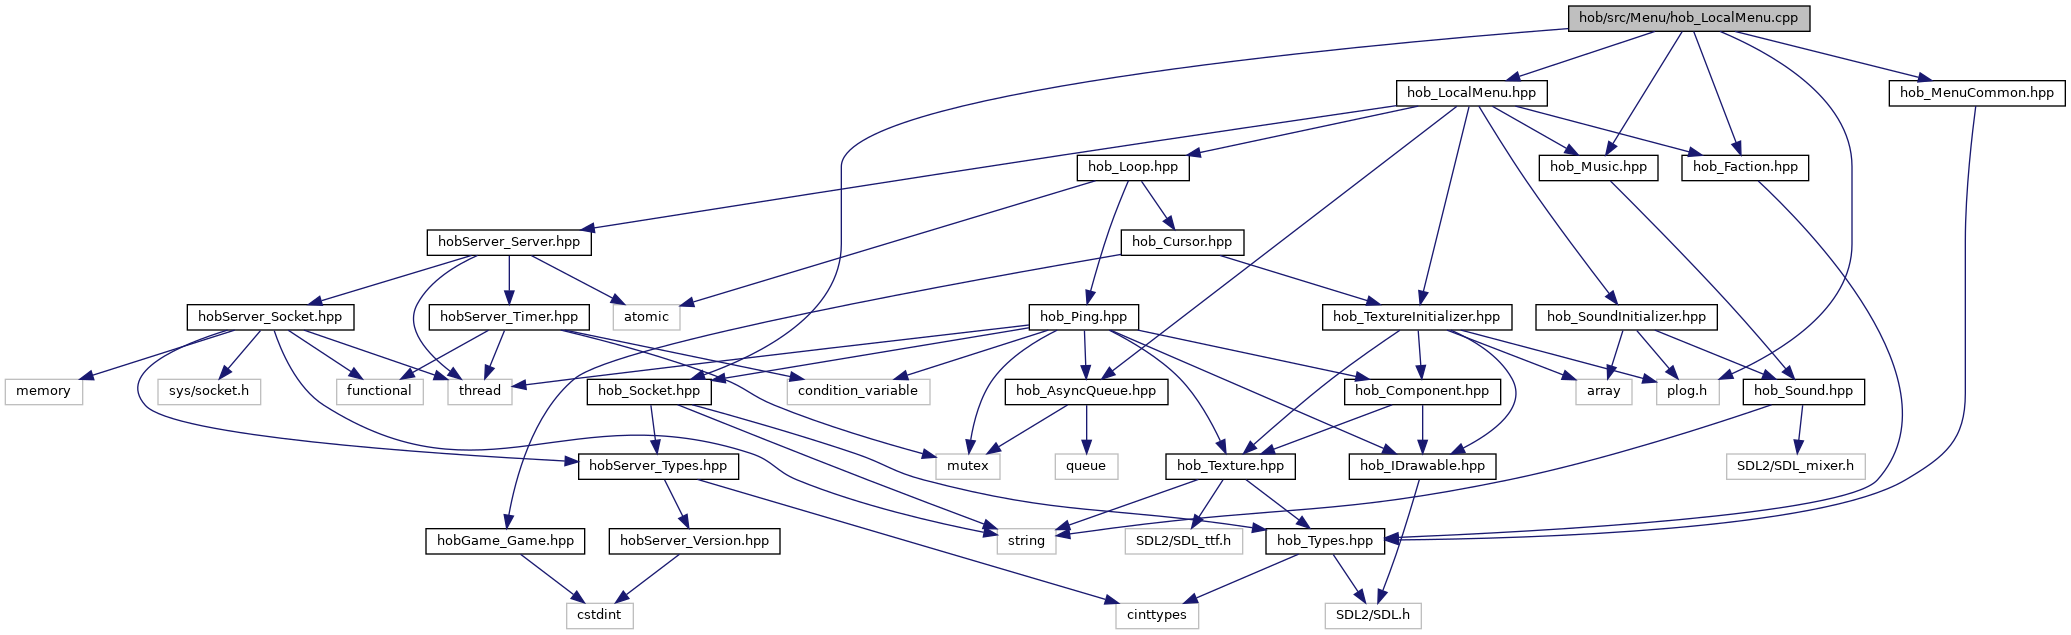
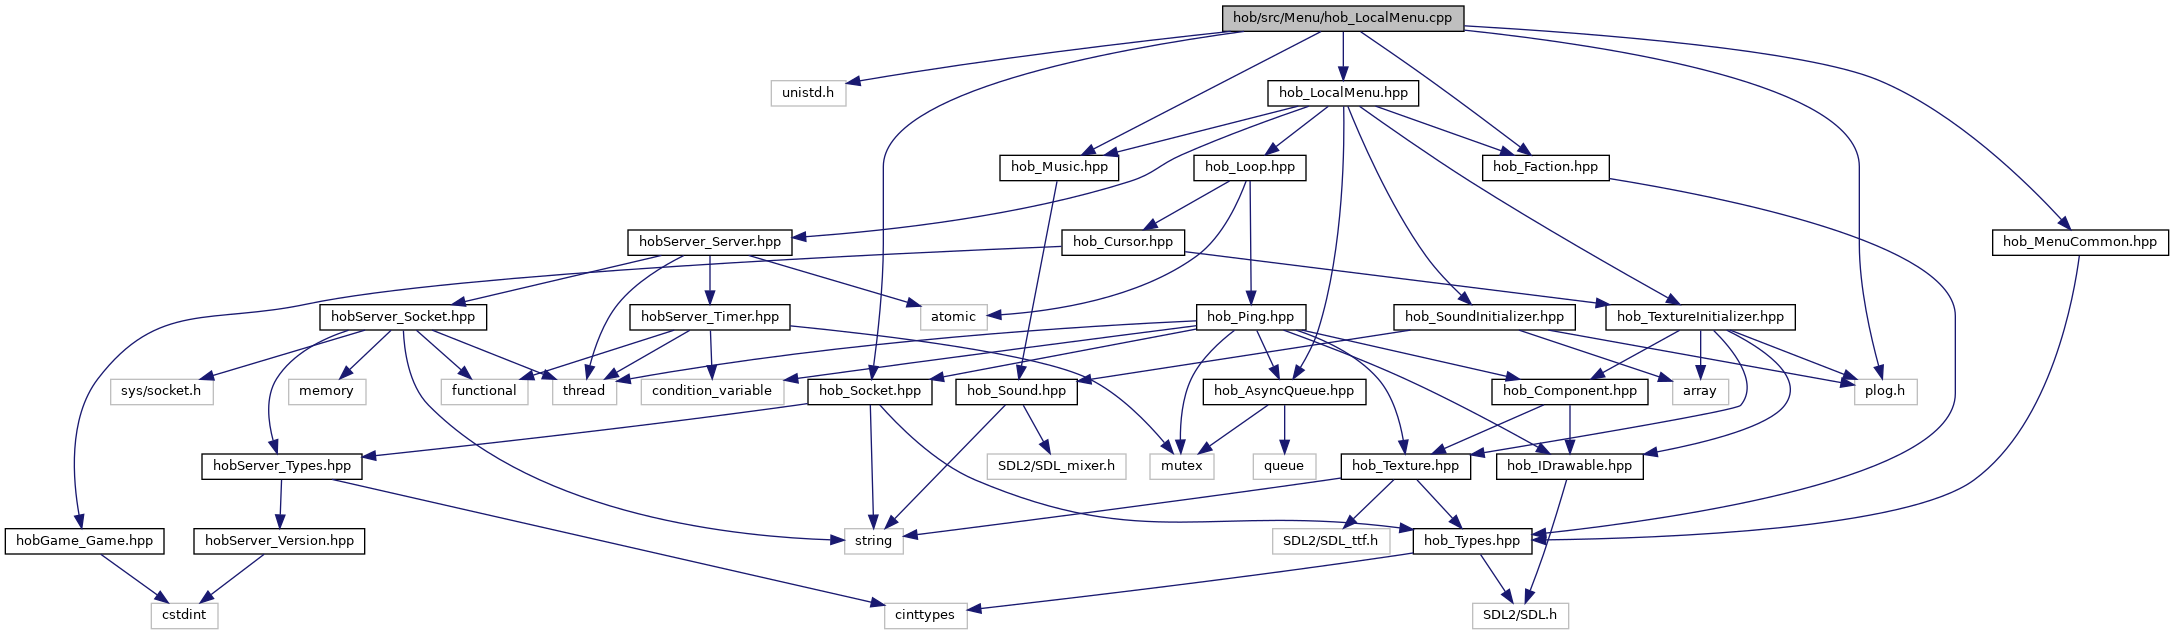
Update compiler flags

diff --git a/docs/html/hob__LocalMenu_8cpp.html b/docs/html/hob__LocalMenu_8cpp.html
@@ -72,7 +72,8 @@ $(function() {
 <div class="title">hob_LocalMenu.cpp File Reference</div>  </div>
 </div><!--header-->
 <div class="contents">
-<div class="textblock"><code>#include &lt;plog.h&gt;</code><br />
+<div class="textblock"><code>#include &lt;unistd.h&gt;</code><br />
+<code>#include &lt;plog.h&gt;</code><br />
 <code>#include &quot;<a class="el" href="hob__LocalMenu_8hpp_source.html">hob_LocalMenu.hpp</a>&quot;</code><br />
 <code>#include &quot;<a class="el" href="hob__MenuCommon_8hpp_source.html">hob_MenuCommon.hpp</a>&quot;</code><br />
 <code>#include &quot;<a class="el" href="hob__Music_8hpp_source.html">hob_Music.hpp</a>&quot;</code><br />
@@ -83,45 +84,46 @@ Include dependency graph for hob_LocalMenu.cpp:</div>
 <div class="dyncontent">
 <div class="center"><img src="hob__LocalMenu_8cpp__incl.png" border="0" usemap="#ahob_2src_2Menu_2hob__LocalMenu_8cpp" alt=""/></div>
 <map name="ahob_2src_2Menu_2hob__LocalMenu_8cpp" id="ahob_2src_2Menu_2hob__LocalMenu_8cpp">
-<area shape="rect" title=" " alt="" coords="1569,5,1810,32"/>
-<area shape="rect" title=" " alt="" coords="1657,379,1719,405"/>
-<area shape="rect" href="hob__LocalMenu_8hpp.html" title=" " alt="" coords="1397,80,1547,107"/>
-<area shape="rect" href="hob__Socket_8hpp.html" title=" " alt="" coords="587,379,711,405"/>
-<area shape="rect" href="hob__Music_8hpp.html" title=" " alt="" coords="1539,155,1658,181"/>
-<area shape="rect" href="hob__Faction_8hpp.html" title=" " alt="" coords="1682,155,1809,181"/>
-<area shape="rect" href="hob__MenuCommon_8hpp.html" title=" " alt="" coords="1889,80,2065,107"/>
-<area shape="rect" href="hob__Loop_8hpp.html" title=" " alt="" coords="1077,155,1189,181"/>
-<area shape="rect" href="hob__AsyncQueue_8hpp.html" title=" " alt="" coords="1005,379,1168,405"/>
-<area shape="rect" href="hob__TextureInitializer_8hpp.html" title=" " alt="" coords="1323,304,1512,331"/>
-<area shape="rect" href="hob__SoundInitializer_8hpp.html" title=" " alt="" coords="1536,304,1717,331"/>
-<area shape="rect" href="hobServer__Server_8hpp.html" title=" " alt="" coords="427,229,591,256"/>
-<area shape="rect" title=" " alt="" coords="613,304,680,331"/>
-<area shape="rect" href="hob__Ping_8hpp.html" title=" " alt="" coords="1029,304,1139,331"/>
-<area shape="rect" href="hob__Cursor_8hpp.html" title=" " alt="" coords="1121,229,1244,256"/>
-<area shape="rect" title=" " alt="" coords="448,379,512,405"/>
-<area shape="rect" title=" " alt="" coords="936,453,1000,480"/>
-<area shape="rect" title=" " alt="" coords="787,379,930,405"/>
-<area shape="rect" href="hob__IDrawable_8hpp.html" title=" " alt="" coords="1349,453,1496,480"/>
-<area shape="rect" href="hob__Texture_8hpp.html" title=" " alt="" coords="1166,453,1295,480"/>
-<area shape="rect" href="hob__Component_8hpp.html" title=" " alt="" coords="1345,379,1501,405"/>
-<area shape="rect" title=" " alt="" coords="1325,603,1421,629"/>
-<area shape="rect" title=" " alt="" coords="997,528,1056,555"/>
-<area shape="rect" title=" " alt="" coords="1125,528,1243,555"/>
-<area shape="rect" href="hob__Types_8hpp.html" title=" " alt="" coords="1266,528,1385,555"/>
-<area shape="rect" title=" " alt="" coords="1116,603,1199,629"/>
-<area shape="rect" title=" " alt="" coords="1055,453,1118,480"/>
-<area shape="rect" href="hobServer__Types_8hpp.html" title=" " alt="" coords="579,453,739,480"/>
-<area shape="rect" href="hobServer__Version_8hpp.html" title=" " alt="" coords="609,528,780,555"/>
-<area shape="rect" title=" " alt="" coords="567,603,633,629"/>
-<area shape="rect" href="hobGame__Game_8hpp.html" title=" " alt="" coords="426,528,585,555"/>
-<area shape="rect" title=" " alt="" coords="1576,379,1632,405"/>
-<area shape="rect" href="hob__Sound_8hpp.html" title=" " alt="" coords="1743,379,1865,405"/>
-<area shape="rect" title=" " alt="" coords="1727,453,1865,480"/>
-<area shape="rect" href="hobServer__Socket_8hpp.html" title=" " alt="" coords="187,304,354,331"/>
-<area shape="rect" href="hobServer__Timer_8hpp.html" title=" " alt="" coords="429,304,589,331"/>
-<area shape="rect" title=" " alt="" coords="5,379,83,405"/>
-<area shape="rect" title=" " alt="" coords="337,379,423,405"/>
-<area shape="rect" title=" " alt="" coords="158,379,261,405"/>
+<area shape="rect" title=" " alt="" coords="1223,5,1464,32"/>
+<area shape="rect" title=" " alt="" coords="771,80,846,107"/>
+<area shape="rect" title=" " alt="" coords="1855,379,1917,405"/>
+<area shape="rect" href="hob__LocalMenu_8hpp.html" title=" " alt="" coords="1268,80,1419,107"/>
+<area shape="rect" href="hob__Socket_8hpp.html" title=" " alt="" coords="808,379,932,405"/>
+<area shape="rect" href="hob__Music_8hpp.html" title=" " alt="" coords="1000,155,1119,181"/>
+<area shape="rect" href="hob__Faction_8hpp.html" title=" " alt="" coords="1483,155,1609,181"/>
+<area shape="rect" href="hob__MenuCommon_8hpp.html" title=" " alt="" coords="1993,229,2169,256"/>
+<area shape="rect" href="hob__Loop_8hpp.html" title=" " alt="" coords="1194,155,1306,181"/>
+<area shape="rect" href="hob__AsyncQueue_8hpp.html" title=" " alt="" coords="1203,379,1366,405"/>
+<area shape="rect" href="hob__TextureInitializer_8hpp.html" title=" " alt="" coords="1606,304,1795,331"/>
+<area shape="rect" href="hob__SoundInitializer_8hpp.html" title=" " alt="" coords="1394,304,1575,331"/>
+<area shape="rect" href="hobServer__Server_8hpp.html" title=" " alt="" coords="628,229,792,256"/>
+<area shape="rect" title=" " alt="" coords="921,304,987,331"/>
+<area shape="rect" href="hob__Ping_8hpp.html" title=" " alt="" coords="1197,304,1306,331"/>
+<area shape="rect" href="hob__Cursor_8hpp.html" title=" " alt="" coords="1062,229,1185,256"/>
+<area shape="rect" title=" " alt="" coords="553,379,617,405"/>
+<area shape="rect" title=" " alt="" coords="1150,453,1214,480"/>
+<area shape="rect" title=" " alt="" coords="641,379,784,405"/>
+<area shape="rect" href="hob__IDrawable_8hpp.html" title=" " alt="" coords="1497,453,1643,480"/>
+<area shape="rect" href="hob__Texture_8hpp.html" title=" " alt="" coords="1341,453,1471,480"/>
+<area shape="rect" href="hob__Component_8hpp.html" title=" " alt="" coords="1492,379,1648,405"/>
+<area shape="rect" title=" " alt="" coords="1473,603,1569,629"/>
+<area shape="rect" title=" " alt="" coords="845,528,903,555"/>
+<area shape="rect" title=" " alt="" coords="1273,528,1390,555"/>
+<area shape="rect" href="hob__Types_8hpp.html" title=" " alt="" coords="1413,528,1532,555"/>
+<area shape="rect" title=" " alt="" coords="885,603,967,629"/>
+<area shape="rect" title=" " alt="" coords="1253,453,1316,480"/>
+<area shape="rect" href="hobServer__Types_8hpp.html" title=" " alt="" coords="202,453,362,480"/>
+<area shape="rect" href="hobServer__Version_8hpp.html" title=" " alt="" coords="194,528,365,555"/>
+<area shape="rect" title=" " alt="" coords="151,603,218,629"/>
+<area shape="rect" href="hobGame__Game_8hpp.html" title=" " alt="" coords="5,528,164,555"/>
+<area shape="rect" title=" " alt="" coords="1673,379,1729,405"/>
+<area shape="rect" href="hob__Sound_8hpp.html" title=" " alt="" coords="956,379,1077,405"/>
+<area shape="rect" title=" " alt="" coords="987,453,1126,480"/>
+<area shape="rect" href="hobServer__Socket_8hpp.html" title=" " alt="" coords="320,304,487,331"/>
+<area shape="rect" href="hobServer__Timer_8hpp.html" title=" " alt="" coords="630,304,790,331"/>
+<area shape="rect" title=" " alt="" coords="289,379,366,405"/>
+<area shape="rect" title=" " alt="" coords="441,379,528,405"/>
+<area shape="rect" title=" " alt="" coords="111,379,213,405"/>
 </map>
 </div>
 </div><table class="memberdecls">

diff --git a/docs/html/hobGame__Game_8hpp_source.html b/docs/html/hobGame__Game_8hpp_source.html
@@ -148,12 +148,12 @@ $(function() {
 <div class="line"><a name="l00120"></a><span class="lineno">  120</span>&#160; </div>
 <div class="line"><a name="l00121"></a><span class="lineno">  121</span>&#160;<span class="preprocessor">#endif </span><span class="comment">/*&lt; HOB_GAME_GAME_HPP_ */</span><span class="preprocessor"></span></div>
 <div class="ttc" id="aclasshobGame_1_1Game_html"><div class="ttname"><a href="classhobGame_1_1Game.html">hobGame::Game</a></div><div class="ttdef"><b>Definition:</b> hobGame_Game.hpp:61</div></div>
-<div class="ttc" id="aclasshobGame_1_1Game_html_a20285d2c61716f6690349449f7ad184b"><div class="ttname"><a href="classhobGame_1_1Game.html#a20285d2c61716f6690349449f7ad184b">hobGame::Game::getCursorType</a></div><div class="ttdeci">CursorType getCursorType(int32_t x, int32_t y) const noexcept</div><div class="ttdef"><b>Definition:</b> hobGame_Game.cpp:102</div></div>
-<div class="ttc" id="aclasshobGame_1_1Game_html_a20ad4af34bd2f3c635e1703c993bab15"><div class="ttname"><a href="classhobGame_1_1Game.html#a20ad4af34bd2f3c635e1703c993bab15">hobGame::Game::getMenuMode</a></div><div class="ttdeci">MenuMode getMenuMode(int32_t x, int32_t y) const noexcept</div><div class="ttdef"><b>Definition:</b> hobGame_Game.cpp:121</div></div>
+<div class="ttc" id="aclasshobGame_1_1Game_html_a20285d2c61716f6690349449f7ad184b"><div class="ttname"><a href="classhobGame_1_1Game.html#a20285d2c61716f6690349449f7ad184b">hobGame::Game::getCursorType</a></div><div class="ttdeci">CursorType getCursorType(int32_t x, int32_t y) const noexcept</div><div class="ttdef"><b>Definition:</b> hobGame_Game.cpp:103</div></div>
+<div class="ttc" id="aclasshobGame_1_1Game_html_a20ad4af34bd2f3c635e1703c993bab15"><div class="ttname"><a href="classhobGame_1_1Game.html#a20ad4af34bd2f3c635e1703c993bab15">hobGame::Game::getMenuMode</a></div><div class="ttdeci">MenuMode getMenuMode(int32_t x, int32_t y) const noexcept</div><div class="ttdef"><b>Definition:</b> hobGame_Game.cpp:122</div></div>
 <div class="ttc" id="aclasshobGame_1_1Game_html_a4e0c6d5a25e103816629ac48dd61dd58"><div class="ttname"><a href="classhobGame_1_1Game.html#a4e0c6d5a25e103816629ac48dd61dd58">hobGame::Game::recruit</a></div><div class="ttdeci">bool recruit(Unit unit) noexcept</div><div class="ttdef"><b>Definition:</b> hobGame_Game.cpp:97</div></div>
 <div class="ttc" id="aclasshobGame_1_1Game_html_a7ef578b522dd4e81c8185f75a1861322"><div class="ttname"><a href="classhobGame_1_1Game.html#a7ef578b522dd4e81c8185f75a1861322">hobGame::Game::endTurn</a></div><div class="ttdeci">void endTurn(void) noexcept</div><div class="ttdef"><b>Definition:</b> hobGame_Game.cpp:83</div></div>
 <div class="ttc" id="aclasshobGame_1_1Game_html_acf144f65fff9d86001cb91f3b0080683"><div class="ttname"><a href="classhobGame_1_1Game.html#acf144f65fff9d86001cb91f3b0080683">hobGame::Game::Game</a></div><div class="ttdeci">Game(bool isAlliance) noexcept</div><div class="ttdef"><b>Definition:</b> hobGame_Game.cpp:76</div></div>
-<div class="ttc" id="aclasshobGame_1_1Game_html_ade0d4dac68791d86cdc1b45aec61ae9e"><div class="ttname"><a href="classhobGame_1_1Game.html#ade0d4dac68791d86cdc1b45aec61ae9e">hobGame::Game::getGold</a></div><div class="ttdeci">uint8_t getGold(void) const noexcept</div><div class="ttdef"><b>Definition:</b> hobGame_Game.cpp:145</div></div>
+<div class="ttc" id="aclasshobGame_1_1Game_html_ade0d4dac68791d86cdc1b45aec61ae9e"><div class="ttname"><a href="classhobGame_1_1Game.html#ade0d4dac68791d86cdc1b45aec61ae9e">hobGame::Game::getGold</a></div><div class="ttdeci">uint8_t getGold(void) const noexcept</div><div class="ttdef"><b>Definition:</b> hobGame_Game.cpp:146</div></div>
 <div class="ttc" id="aclasshobGame_1_1Game_html_adface847ccdb8e8fc00c2031e39c837c"><div class="ttname"><a href="classhobGame_1_1Game.html#adface847ccdb8e8fc00c2031e39c837c">hobGame::Game::getTurn</a></div><div class="ttdeci">bool getTurn(void) const noexcept</div><div class="ttdef"><b>Definition:</b> hobGame_Game.cpp:92</div></div>
 <div class="ttc" id="aclasshobGame_1_1Game_html_ae280a2da78ae1a60d60b85b9701b3b6f"><div class="ttname"><a href="classhobGame_1_1Game.html#ae280a2da78ae1a60d60b85b9701b3b6f">hobGame::Game::~Game</a></div><div class="ttdeci">~Game(void)=default</div></div>
 <div class="ttc" id="anamespacehobGame_html"><div class="ttname"><a href="namespacehobGame.html">hobGame</a></div><div class="ttdef"><b>Definition:</b> hobGame_Game.hpp:28</div></div>

diff --git a/docs/html/hob__LocalMenu_8hpp_source.html b/docs/html/hob__LocalMenu_8hpp_source.html
@@ -218,8 +218,8 @@ $(function() {
 <div class="ttc" id="aclasshob_1_1Cursor_html"><div class="ttname"><a href="classhob_1_1Cursor.html">hob::Cursor</a></div><div class="ttdoc">Provides a way to customize the cursor.</div><div class="ttdef"><b>Definition:</b> hob_Cursor.hpp:77</div></div>
 <div class="ttc" id="aclasshob_1_1Faction_html"><div class="ttname"><a href="classhob_1_1Faction.html">hob::Faction</a></div><div class="ttdoc">Global user faction (Alliance | Horde).</div><div class="ttdef"><b>Definition:</b> hob_Faction.hpp:51</div></div>
 <div class="ttc" id="aclasshob_1_1LocalMenu_html"><div class="ttname"><a href="classhob_1_1LocalMenu.html">hob::LocalMenu</a></div><div class="ttdoc">LAN scene.</div><div class="ttdef"><b>Definition:</b> hob_LocalMenu.hpp:108</div></div>
-<div class="ttc" id="aclasshob_1_1LocalMenu_html_a39f2d51723d4f871f487a6963219df39"><div class="ttname"><a href="classhob_1_1LocalMenu.html#a39f2d51723d4f871f487a6963219df39">hob::LocalMenu::LocalMenu</a></div><div class="ttdeci">LocalMenu(SDL_Renderer *renderer, Cursor &amp;cursor, Ping *ping, Music &amp;music, Faction &amp;faction, hobServer::Server &amp;server, Socket &amp;socket) noexcept</div><div class="ttdoc">Loads the textures and sounds needed for this scene.</div><div class="ttdef"><b>Definition:</b> hob_LocalMenu.cpp:62</div></div>
-<div class="ttc" id="aclasshob_1_1LocalMenu_html_a5c5c02842089338619b214c7068fb8c9"><div class="ttname"><a href="classhob_1_1LocalMenu.html#a5c5c02842089338619b214c7068fb8c9">hob::LocalMenu::~LocalMenu</a></div><div class="ttdeci">~LocalMenu(void) noexcept</div><div class="ttdoc">Destroys the loaded textures and sound needed for this scene.</div><div class="ttdef"><b>Definition:</b> hob_LocalMenu.cpp:124</div></div>
+<div class="ttc" id="aclasshob_1_1LocalMenu_html_a39f2d51723d4f871f487a6963219df39"><div class="ttname"><a href="classhob_1_1LocalMenu.html#a39f2d51723d4f871f487a6963219df39">hob::LocalMenu::LocalMenu</a></div><div class="ttdeci">LocalMenu(SDL_Renderer *renderer, Cursor &amp;cursor, Ping *ping, Music &amp;music, Faction &amp;faction, hobServer::Server &amp;server, Socket &amp;socket) noexcept</div><div class="ttdoc">Loads the textures and sounds needed for this scene.</div><div class="ttdef"><b>Definition:</b> hob_LocalMenu.cpp:64</div></div>
+<div class="ttc" id="aclasshob_1_1LocalMenu_html_a5c5c02842089338619b214c7068fb8c9"><div class="ttname"><a href="classhob_1_1LocalMenu.html#a5c5c02842089338619b214c7068fb8c9">hob::LocalMenu::~LocalMenu</a></div><div class="ttdeci">~LocalMenu(void) noexcept</div><div class="ttdoc">Destroys the loaded textures and sound needed for this scene.</div><div class="ttdef"><b>Definition:</b> hob_LocalMenu.cpp:126</div></div>
 <div class="ttc" id="aclasshob_1_1Loop_html"><div class="ttname"><a href="classhob_1_1Loop.html">hob::Loop</a></div><div class="ttdoc">Abstract class that provides the inherited mechanism to keeping up a scene.</div><div class="ttdef"><b>Definition:</b> hob_Loop.hpp:56</div></div>
 <div class="ttc" id="aclasshob_1_1Loop_html_a94a2ff7e065743776569aabef6cd1869"><div class="ttname"><a href="classhob_1_1Loop.html#a94a2ff7e065743776569aabef6cd1869">hob::Loop::cursor</a></div><div class="ttdeci">Cursor &amp; cursor</div><div class="ttdoc">Reference to the cursor object.</div><div class="ttdef"><b>Definition:</b> hob_Loop.hpp:125</div></div>
 <div class="ttc" id="aclasshob_1_1Loop_html_ab1c071aad9aea8eff01cd7d6414841a4"><div class="ttname"><a href="classhob_1_1Loop.html#ab1c071aad9aea8eff01cd7d6414841a4">hob::Loop::ping</a></div><div class="ttdeci">Ping *const ping</div><div class="ttdoc">Displays the latency for multiplayer scenes.</div><div class="ttdef"><b>Definition:</b> hob_Loop.hpp:130</div></div>

diff --git a/docs/html/hob__MainMenu_8hpp_source.html b/docs/html/hob__MainMenu_8hpp_source.html
@@ -185,7 +185,7 @@ $(function() {
 <div class="ttc" id="aclasshob_1_1Loop_html_acd0d580387a7e988f88ce3992bb9c6b6"><div class="ttname"><a href="classhob_1_1Loop.html#acd0d580387a7e988f88ce3992bb9c6b6">hob::Loop::renderer</a></div><div class="ttdeci">SDL_Renderer *const renderer</div><div class="ttdoc">The rendering context of the window.</div><div class="ttdef"><b>Definition:</b> hob_Loop.hpp:120</div></div>
 <div class="ttc" id="aclasshob_1_1MainMenu_html"><div class="ttname"><a href="classhob_1_1MainMenu.html">hob::MainMenu</a></div><div class="ttdoc">Main menu scene.</div><div class="ttdef"><b>Definition:</b> hob_MainMenu.hpp:95</div></div>
 <div class="ttc" id="aclasshob_1_1MainMenu_html_a0c4add7f4c8618dfda3db15d8d07d8b7"><div class="ttname"><a href="classhob_1_1MainMenu.html#a0c4add7f4c8618dfda3db15d8d07d8b7">hob::MainMenu::~MainMenu</a></div><div class="ttdeci">~MainMenu(void)=default</div><div class="ttdoc">Destroys the loaded textures and sound needed for this scene.</div></div>
-<div class="ttc" id="aclasshob_1_1MainMenu_html_ae633ec01eaaffe273eea5e502ed8b2db"><div class="ttname"><a href="classhob_1_1MainMenu.html#ae633ec01eaaffe273eea5e502ed8b2db">hob::MainMenu::MainMenu</a></div><div class="ttdeci">MainMenu(SDL_Renderer *renderer, Cursor &amp;cursor, Music &amp;music) noexcept</div><div class="ttdoc">Loads the textures and sounds needed for this scene.</div><div class="ttdef"><b>Definition:</b> hob_MainMenu.cpp:58</div></div>
+<div class="ttc" id="aclasshob_1_1MainMenu_html_ae633ec01eaaffe273eea5e502ed8b2db"><div class="ttname"><a href="classhob_1_1MainMenu.html#ae633ec01eaaffe273eea5e502ed8b2db">hob::MainMenu::MainMenu</a></div><div class="ttdeci">MainMenu(SDL_Renderer *renderer, Cursor &amp;cursor, Music &amp;music) noexcept</div><div class="ttdoc">Loads the textures and sounds needed for this scene.</div><div class="ttdef"><b>Definition:</b> hob_MainMenu.cpp:59</div></div>
 <div class="ttc" id="aclasshob_1_1Music_html"><div class="ttname"><a href="classhob_1_1Music.html">hob::Music</a></div><div class="ttdoc">Music wrapper.</div><div class="ttdef"><b>Definition:</b> hob_Music.hpp:60</div></div>
 <div class="ttc" id="aclasshob_1_1SoundInitializer_html"><div class="ttname"><a href="classhob_1_1SoundInitializer.html">hob::SoundInitializer</a></div><div class="ttdoc">Initializes a list of sounds.</div><div class="ttdef"><b>Definition:</b> hob_SoundInitializer.hpp:56</div></div>
 <div class="ttc" id="aclasshob_1_1TextureInitializer_html"><div class="ttname"><a href="classhob_1_1TextureInitializer.html">hob::TextureInitializer</a></div><div class="ttdoc">Initializes a list of textures and components.</div><div class="ttdef"><b>Definition:</b> hob_TextureInitializer.hpp:58</div></div>

diff --git a/hob/src/Menu/hob_LocalMenu.cpp b/hob/src/Menu/hob_LocalMenu.cpp
@@ -22,6 +22,7 @@
  * 22.12.2023  Gaina Stefan               Ported to Linux.                                            *
  * 17.01.2024  Gaina Stefan               Added faction member.                                       *
  * 18.01.2024  Gaina Stefan               Break handleEvent() into multiple methods().                *
+ * 19.01.2024  Gaina Stefan               Fix extra compiler warning.                                 *
  * @details This file implements the class defined in hob_LocalMenu.hpp.                              *
  * @todo Offer a way for IP address of the host to be inputed (after pressing connect).               *
  * @bug When waiting for opponent to connect if connect button is pressed quickly it results in a     *
@@ -33,6 +34,7 @@
  * HEADER FILE INCLUDES                                                                               *
  *****************************************************************************************************/
 
+#include <unistd.h>
 #include <plog.h>
 
 #include "hob_LocalMenu.hpp"
@@ -216,10 +218,9 @@ void LocalMenu::handleButtonDown(void) noexcept
 
 void LocalMenu::handleButtonUp(void) noexcept
 {
-	Coordinate     click      = {};
-	const uint32_t mouseState = SDL_GetMouseState(&click.x, &click.y);
+	Coordinate click = {};
 
-	plog_trace("Mouse (%" PRIu32 ") was released. (coordinates: %" PRId32 ", %" PRId32 ")", mouseState, click.x, click.y);
+	plog_trace("Mouse (%" PRIu32 ") was released. (coordinates: %" PRId32 ", %" PRId32 ")", SDL_GetMouseState(&click.x, &click.y), click.x, click.y);
 	if (0UL != clickDownIndex && componentContainer[clickDownIndex].isMouseInside(click, BAR_CORRECTIONS))
 	{
 		switch (clickDownIndex)

diff --git a/hob/src/Menu/hob_MainMenu.cpp b/hob/src/Menu/hob_MainMenu.cpp
@@ -22,6 +22,7 @@
  * 29.08.2023  Gaina Stefan               Refactored.                                                 *
  * 22.12.2023  Gaina Stefan               Ported to Linux.                                            *
  * 18.01.2024  Gaina Stefan               Break handleEvent() into multiple methods().                *
+ * 19.01.2024  Gaina Stefan               Fix extra compiler warning.                                 *
  * @details This file implements the class defined in hob_MainMenu.hpp.                               *
  * @todo N/A.                                                                                         *
  * @bug No known bugs.                                                                                *
@@ -189,10 +190,9 @@ void MainMenu::handleButtonDown(void) noexcept
 
 void MainMenu::handleButtonUp(void) noexcept
 {
-	Coordinate     click      = {};
-	const uint32_t mouseState = SDL_GetMouseState(&click.x, &click.y);
+	Coordinate click = {};
 
-	plog_trace("Mouse (%" PRIu32 ") was released. (coordinates: %" PRId32 ", %" PRId32 ")", mouseState, click.x, click.y);
+	plog_trace("Mouse (%" PRIu32 ") was released. (coordinates: %" PRId32 ", %" PRId32 ")", SDL_GetMouseState(&click.x, &click.y), click.x, click.y);
 	if (0UL != clickDownIndex && componentContainer[clickDownIndex].isMouseInside(click, BAR_CORRECTIONS))
 	{
 		switch (clickDownIndex)

diff --git a/hob/src/Game/Common/hob_Chat.cpp b/hob/src/Game/Common/hob_Chat.cpp
@@ -23,6 +23,7 @@
  * 29.08.2023  Gaina Stefan               Removed the use of getRawTexture().                         *
  * 22.12.2023  Gaina Stefan               Ported to Linux.                                            *
  * 17.01.2024  Gaina Stefan               Added faction colors as parameters.                         *
+ * 19.01.2024  Gaina Stefan               Fix extra compiler warning.                                 *
  * @details This file implements the class defined in hob_Chat.hpp.                                   *
  * @todo N/A.                                                                                         *
  * @bug No known bugs.                                                                                *
@@ -376,6 +377,7 @@ void Chat::sendMessage(SDL_Renderer* const renderer, const Socket& socket) noexc
 
 	updateMessage.type = hobServer::MessageType::TEXT;
 	(void)strncpy(updateMessage.payload.text, enteringMessage.c_str(), sizeof(updateMessage.payload.text));
+	updateMessage.payload.text[sizeof(updateMessage.payload.text) - 1UL] = '\0';
 	socket.sendUpdate(updateMessage);
 
 	enterMessage(enteringMessage, friendlyColor, renderer);

diff --git a/hob/src/Main/hob_Main.cpp b/hob/src/Main/hob_Main.cpp
@@ -20,6 +20,7 @@
  * @date:      @author:                   Reason for change:                                          *
  * 23.07.2023  Gaina Stefan               Initial version.                                            *
  * 22.12.2023  Gaina Stefan               Ported to Linux.                                            *
+ * 19.01.2024  Gaina Stefan               Fix extra compiler warning.                                 *
  * @details This file provides an entry point for the Heap-of-Battle game.                            *
  * @todo N/A.                                                                                         *
  * @bug No known bugs.                                                                                *
@@ -41,6 +42,7 @@
 
 int main(int argc, char* argv[])
 {
+	(void)argv;
 	if (1 < argc)
 	{
 		std::cout << "Parameters are ignored!" << std::endl;

diff --git a/hob-Game/src/hobGame_Game.cpp b/hob-Game/src/hobGame_Game.cpp
@@ -96,6 +96,7 @@ bool Game::getTurn(void) const noexcept
 
 bool Game::recruit(Unit unit) noexcept
 {
+	(void)unit;
 	return true;
 }
 
